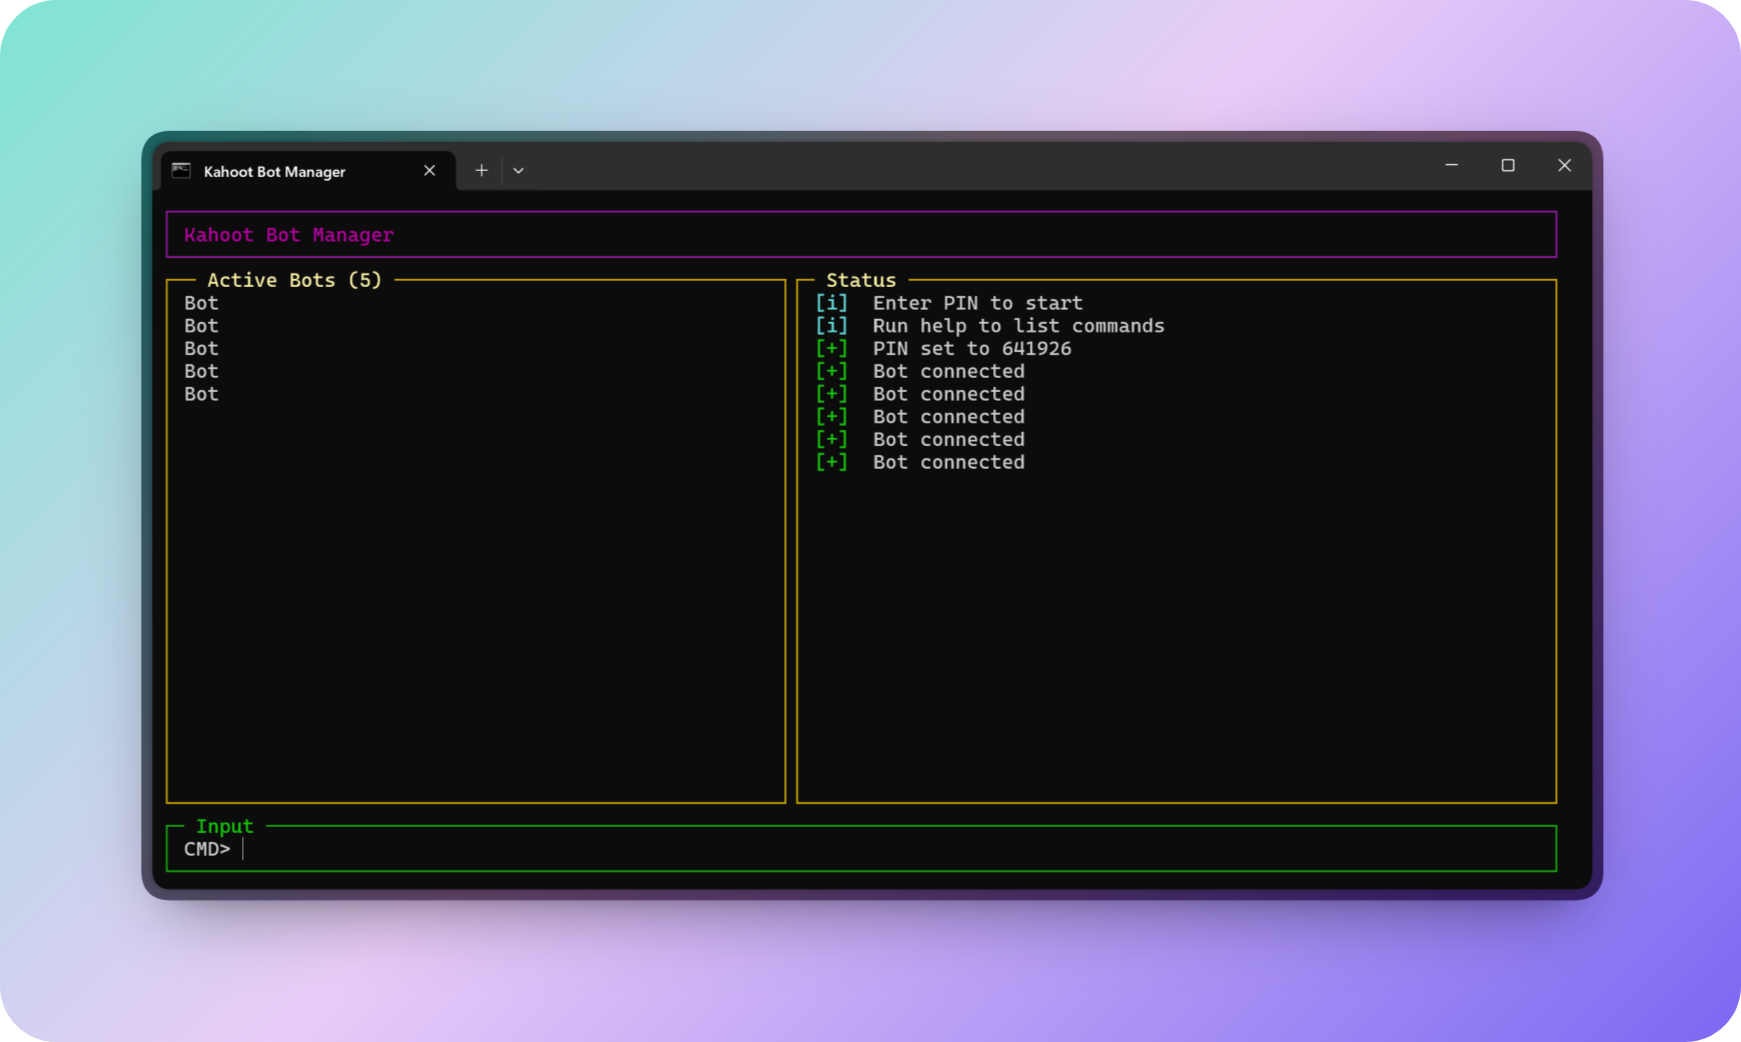
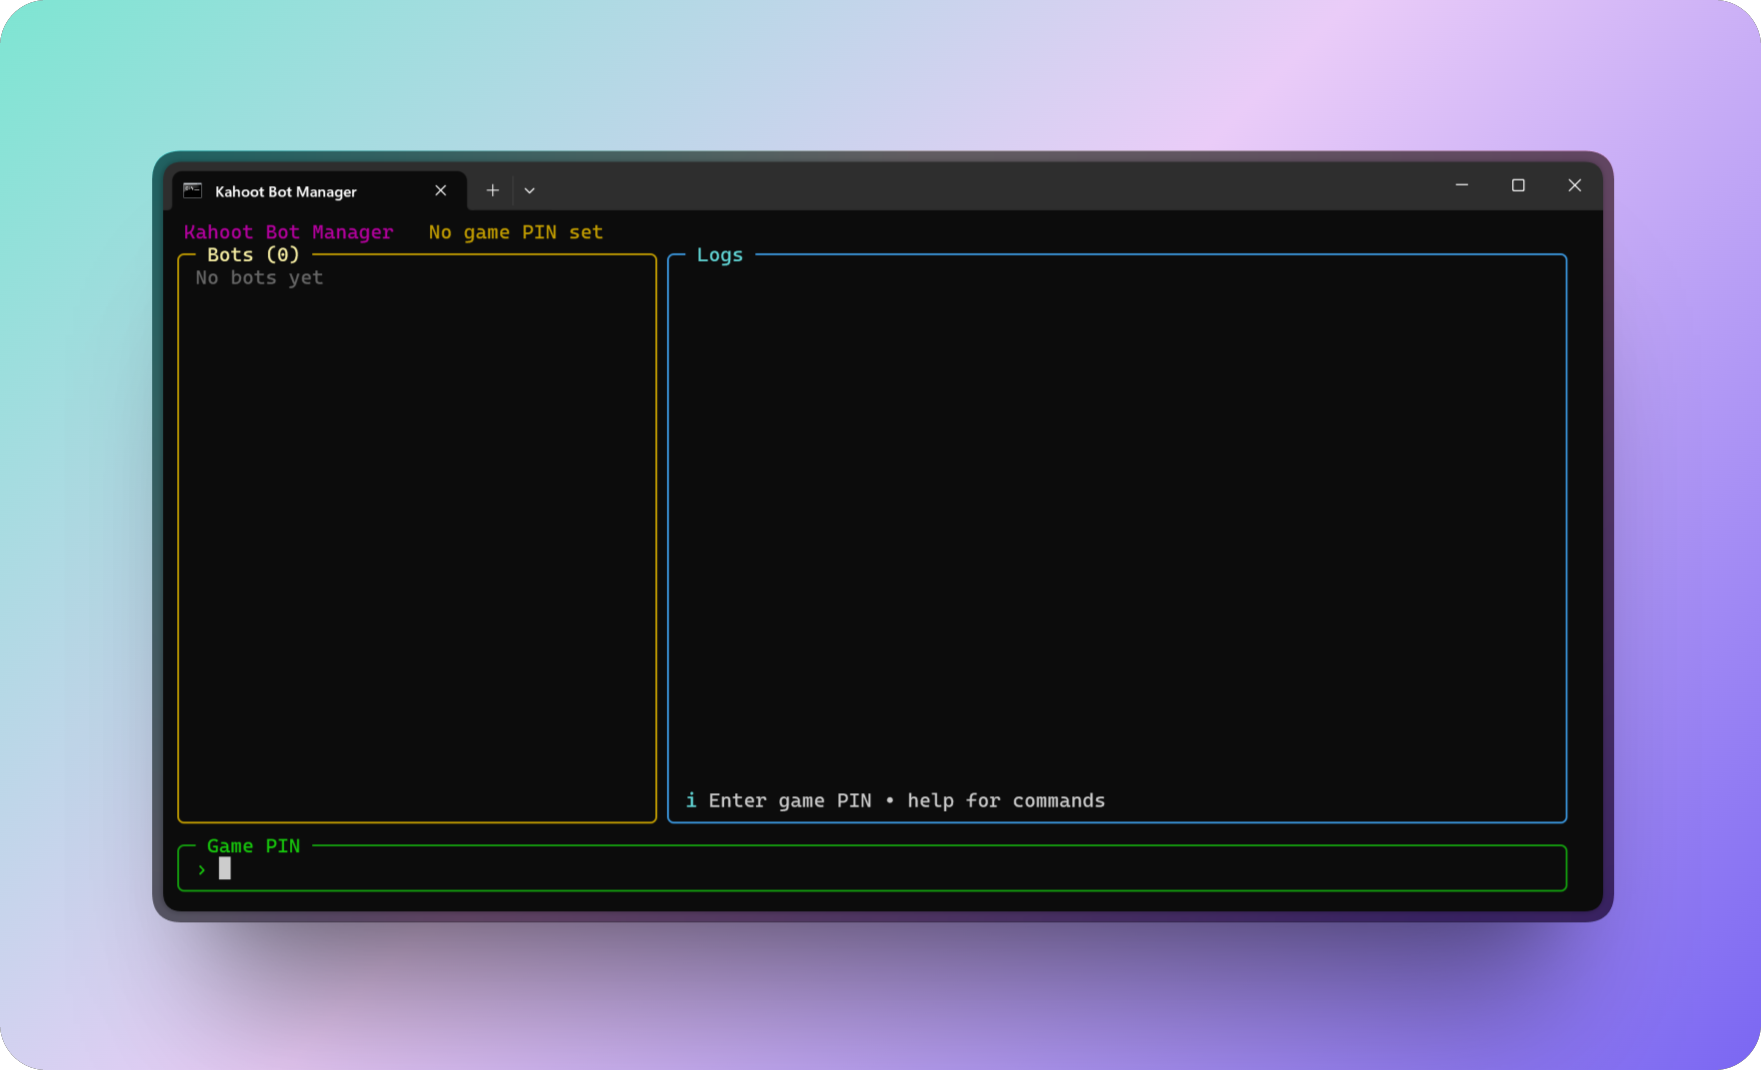
Update preview screenshot to the new interface

diff --git a/README.md b/README.md
@@ -40,4 +40,4 @@ npm start
 | `help`               | Show available commands                        |
 | `exit`               | Remove all bots and quit the program           |
 
-<img width="1666" height="980" alt="Preview" src="Preview.png" />
+<img width="1666" height="1012" alt="Preview" src="Preview.png" />
